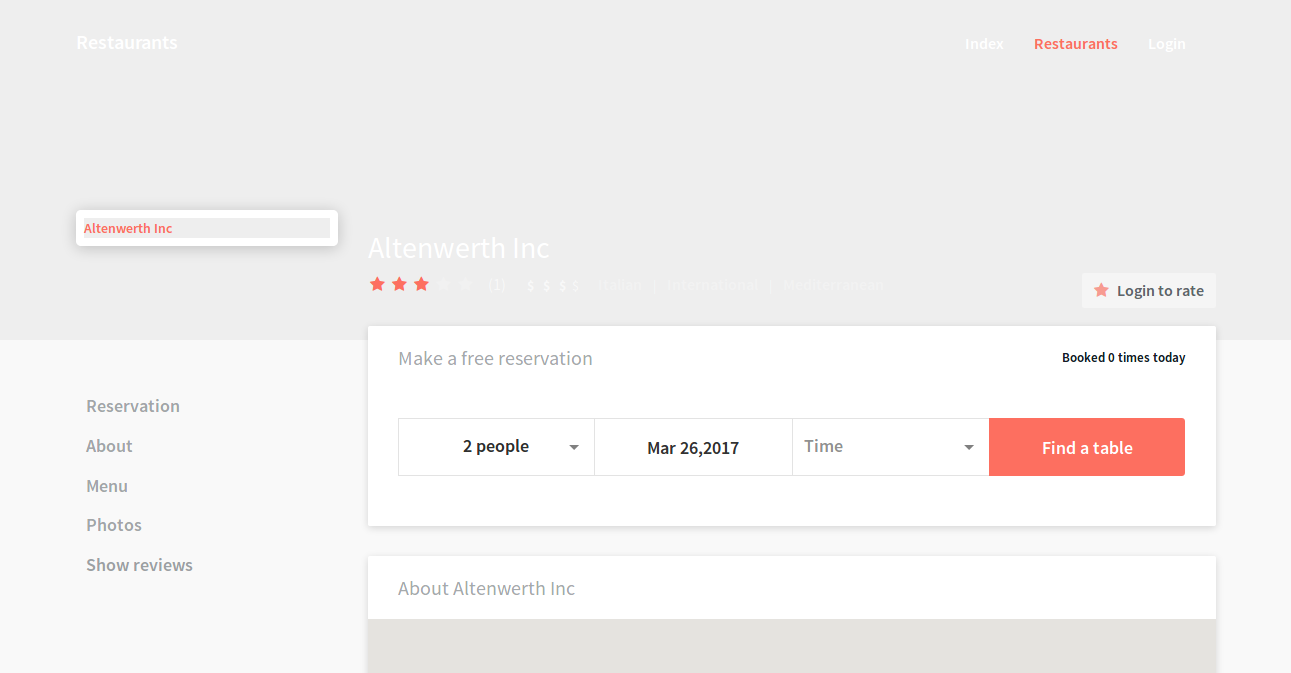
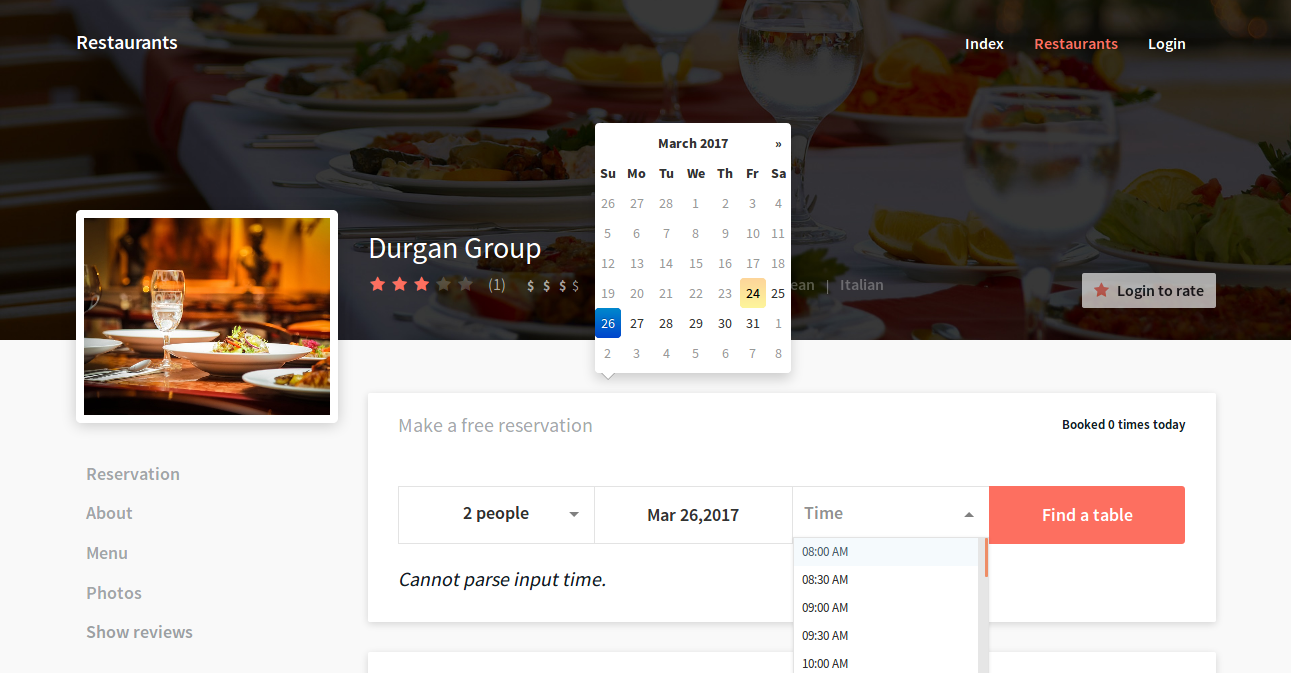
aa

diff --git a/smoke/reports/ReportChrome.html b/smoke/reports/ReportChrome.html
@@ -53,7 +53,7 @@
 					<i class='mdi-hardware-desktop-windows'></i>
 				</li>
 				<li>
-					<span class='suite-started-time'>2017-03-24 20:01:37</span>
+					<span class='suite-started-time'>2017-03-24 20:05:59</span>
 				</li>
 				<li>
 					<span>v2.41.1</span>
@@ -83,25 +83,25 @@
 					<div class='col l2 m4 s12'>
 						<div class='card suite-total-time-current'> 
 							<span class='panel-name'>Total Time Taken (Current Run)</span> 
-							<span class='suite-total-time-current-value panel-lead'>0h 0m 9s+816ms</span> 
+							<span class='suite-total-time-current-value panel-lead'>0h 0m 15s+739ms</span> 
 						</div> 
 					</div>
 					<div class='col l2 m4 s12'>
 						<div class='card suite-total-time-overall'> 
 							<span class='panel-name'>Total Time Taken (Overall)</span> 
-							<span class='suite-total-time-overall-value panel-lead'>0h 0m 9s+816ms</span> 
+							<span class='suite-total-time-overall-value panel-lead'>0h 0m 15s+739ms</span> 
 						</div> 
 					</div>
 					<div class='col l2 m4 s6 suite-start-time'>
 						<div class='card accent green-accent'> 
 							<span class='panel-name'>Start</span> 
-							<span class='panel-lead suite-started-time'>2017-03-24 20:01:27</span> 
+							<span class='panel-lead suite-started-time'>2017-03-24 20:05:43</span> 
 						</div> 
 					</div>
 					<div class='col l2 m4 s6 suite-end-time'>
 						<div class='card accent pink-accent'> 
 							<span class='panel-name'>End</span> 
-							<span class='panel-lead suite-ended-time'>2017-03-24 20:01:37</span> 
+							<span class='panel-lead suite-ended-time'>2017-03-24 20:05:59</span> 
 						</div> 
 					</div>
 				</div>
@@ -249,7 +249,7 @@
 						<div class='card-panel no-padding-h no-padding-v no-margin-v'>
 							<div class='wrapper'>
 								<ul id='test-collection' class='test-collection'>
-										<li class='collection-item test displayed active pass ' extentid='fefb608c-4ab1-4628-add4-83677172162a'>
+										<li class='collection-item test displayed active pass ' extentid='82c893de-c87d-4293-b663-930727033547'>
 											<div class='test-head'>
 												<span class='test-name'>Restaurant App Smoke Test </span>
 												<span class='test-status label right outline capitalize pass'>pass</span>
@@ -257,9 +257,9 @@
 											</div>
 											<div class='test-body'>
 												<div class='test-info'>
-													<span title='Test started time' alt='Test started time' class='test-started-time label green lighten-1 text-white'>2017-03-24 20:01:27</span>
-													<span title='Test ended time' alt='Test ended time' class='test-ended-time label red lighten-1 text-white'>2017-03-24 20:01:36</span>
-													<span title='Time taken to finish' alt='Time taken to finish' class='test-time-taken label blue-grey lighten-3 text-white'>0h 0m 9s+429ms</span>
+													<span title='Test started time' alt='Test started time' class='test-started-time label green lighten-1 text-white'>2017-03-24 20:05:43</span>
+													<span title='Test ended time' alt='Test ended time' class='test-ended-time label red lighten-1 text-white'>2017-03-24 20:05:59</span>
+													<span title='Time taken to finish' alt='Time taken to finish' class='test-time-taken label blue-grey lighten-3 text-white'>0h 0m 15s+397ms</span>
 												</div>
 												<div class='test-desc'></div>
 												<div class='test-attributes'>
@@ -276,32 +276,32 @@
 														<tbody>
 																<tr>
 																	<td class='status info' title='info' alt='info'><i class='mdi-action-info-outline'></i></td>
-																	<td class='timestamp'>20:01:31</td>
+																	<td class='timestamp'>20:05:52</td>
 																	<td class='step-details'>Application Starting...</td>
 																</tr>
 																<tr>
 																	<td class='status info' title='info' alt='info'><i class='mdi-action-info-outline'></i></td>
-																	<td class='timestamp'>20:01:35</td>
+																	<td class='timestamp'>20:05:55</td>
 																	<td class='step-details'>Click on restaurant</td>
 																</tr>
 																<tr>
 																	<td class='status info' title='info' alt='info'><i class='mdi-action-info-outline'></i></td>
-																	<td class='timestamp'>20:01:35</td>
+																	<td class='timestamp'>20:05:55</td>
 																	<td class='step-details'>Clear date field</td>
 																</tr>
 																<tr>
 																	<td class='status info' title='info' alt='info'><i class='mdi-action-info-outline'></i></td>
-																	<td class='timestamp'>20:01:36</td>
+																	<td class='timestamp'>20:05:56</td>
 																	<td class='step-details'>Set date</td>
 																</tr>
 																<tr>
 																	<td class='status info' title='info' alt='info'><i class='mdi-action-info-outline'></i></td>
-																	<td class='timestamp'>20:01:36</td>
+																	<td class='timestamp'>20:05:56</td>
 																	<td class='step-details'>Click on Time</td>
 																</tr>
 																<tr>
 																	<td class='status pass' title='pass' alt='pass'><i class='mdi-action-check-circle'></i></td>
-																	<td class='timestamp'>20:01:36</td>
+																	<td class='timestamp'>20:05:58</td>
 																	<td class='step-details'><a href='/home/anita/git/Restaurants/smoke/reports/restaurantsSmokeTest.png' data-featherlight='image'><img class='report-img' src='file:////home/anita/git/Restaurants/smoke/reports/restaurantsSmokeTest.png' /></a></td>
 																</tr>
 														</tbody>

diff --git a/smoke/reports/ReportFirefox.html b/smoke/reports/ReportFirefox.html
@@ -53,7 +53,7 @@
 					<i class='mdi-hardware-desktop-windows'></i>
 				</li>
 				<li>
-					<span class='suite-started-time'>2017-03-24 20:01:51</span>
+					<span class='suite-started-time'>2017-03-24 20:06:15</span>
 				</li>
 				<li>
 					<span>v2.41.1</span>
@@ -83,25 +83,25 @@
 					<div class='col l2 m4 s12'>
 						<div class='card suite-total-time-current'> 
 							<span class='panel-name'>Total Time Taken (Current Run)</span> 
-							<span class='suite-total-time-current-value panel-lead'>0h 0m 9s+268ms</span> 
+							<span class='suite-total-time-current-value panel-lead'>0h 0m 10s+868ms</span> 
 						</div> 
 					</div>
 					<div class='col l2 m4 s12'>
 						<div class='card suite-total-time-overall'> 
 							<span class='panel-name'>Total Time Taken (Overall)</span> 
-							<span class='suite-total-time-overall-value panel-lead'>0h 0m 9s+268ms</span> 
+							<span class='suite-total-time-overall-value panel-lead'>0h 0m 10s+868ms</span> 
 						</div> 
 					</div>
 					<div class='col l2 m4 s6 suite-start-time'>
 						<div class='card accent green-accent'> 
 							<span class='panel-name'>Start</span> 
-							<span class='panel-lead suite-started-time'>2017-03-24 20:01:42</span> 
+							<span class='panel-lead suite-started-time'>2017-03-24 20:06:04</span> 
 						</div> 
 					</div>
 					<div class='col l2 m4 s6 suite-end-time'>
 						<div class='card accent pink-accent'> 
 							<span class='panel-name'>End</span> 
-							<span class='panel-lead suite-ended-time'>2017-03-24 20:01:51</span> 
+							<span class='panel-lead suite-ended-time'>2017-03-24 20:06:15</span> 
 						</div> 
 					</div>
 				</div>
@@ -249,7 +249,7 @@
 						<div class='card-panel no-padding-h no-padding-v no-margin-v'>
 							<div class='wrapper'>
 								<ul id='test-collection' class='test-collection'>
-										<li class='collection-item test displayed active pass ' extentid='5e3be274-6c86-4800-931f-14bea7f06b09'>
+										<li class='collection-item test displayed active pass ' extentid='047f1385-50b4-44b9-9434-d931228d35f4'>
 											<div class='test-head'>
 												<span class='test-name'>Restaurant App Smoke Test </span>
 												<span class='test-status label right outline capitalize pass'>pass</span>
@@ -257,9 +257,9 @@
 											</div>
 											<div class='test-body'>
 												<div class='test-info'>
-													<span title='Test started time' alt='Test started time' class='test-started-time label green lighten-1 text-white'>2017-03-24 20:01:42</span>
-													<span title='Test ended time' alt='Test ended time' class='test-ended-time label red lighten-1 text-white'>2017-03-24 20:01:51</span>
-													<span title='Time taken to finish' alt='Time taken to finish' class='test-time-taken label blue-grey lighten-3 text-white'>0h 0m 9s+161ms</span>
+													<span title='Test started time' alt='Test started time' class='test-started-time label green lighten-1 text-white'>2017-03-24 20:06:04</span>
+													<span title='Test ended time' alt='Test ended time' class='test-ended-time label red lighten-1 text-white'>2017-03-24 20:06:15</span>
+													<span title='Time taken to finish' alt='Time taken to finish' class='test-time-taken label blue-grey lighten-3 text-white'>0h 0m 10s+820ms</span>
 												</div>
 												<div class='test-desc'></div>
 												<div class='test-attributes'>
@@ -276,32 +276,32 @@
 														<tbody>
 																<tr>
 																	<td class='status info' title='info' alt='info'><i class='mdi-action-info-outline'></i></td>
-																	<td class='timestamp'>20:01:46</td>
+																	<td class='timestamp'>20:06:07</td>
 																	<td class='step-details'>Application Starting...</td>
 																</tr>
 																<tr>
 																	<td class='status info' title='info' alt='info'><i class='mdi-action-info-outline'></i></td>
-																	<td class='timestamp'>20:01:50</td>
+																	<td class='timestamp'>20:06:11</td>
 																	<td class='step-details'>Click on restaurant</td>
 																</tr>
 																<tr>
 																	<td class='status info' title='info' alt='info'><i class='mdi-action-info-outline'></i></td>
-																	<td class='timestamp'>20:01:50</td>
+																	<td class='timestamp'>20:06:11</td>
 																	<td class='step-details'>Clear date field</td>
 																</tr>
 																<tr>
 																	<td class='status info' title='info' alt='info'><i class='mdi-action-info-outline'></i></td>
-																	<td class='timestamp'>20:01:51</td>
+																	<td class='timestamp'>20:06:11</td>
 																	<td class='step-details'>Set date</td>
 																</tr>
 																<tr>
 																	<td class='status info' title='info' alt='info'><i class='mdi-action-info-outline'></i></td>
-																	<td class='timestamp'>20:01:51</td>
+																	<td class='timestamp'>20:06:12</td>
 																	<td class='step-details'>Click on Time</td>
 																</tr>
 																<tr>
 																	<td class='status pass' title='pass' alt='pass'><i class='mdi-action-check-circle'></i></td>
-																	<td class='timestamp'>20:01:51</td>
+																	<td class='timestamp'>20:06:15</td>
 																	<td class='step-details'><a href='/home/anita/git/Restaurants/smoke/reports/restaurantsSmokeTest.png' data-featherlight='image'><img class='report-img' src='file:////home/anita/git/Restaurants/smoke/reports/restaurantsSmokeTest.png' /></a></td>
 																</tr>
 														</tbody>

diff --git a/smoke/src/test/java/com/restaurants/smoke/Tests.java b/smoke/src/test/java/com/restaurants/smoke/Tests.java
@@ -93,12 +93,12 @@ public class Tests {
 		test.log(LogStatus.INFO, "Set date");
 		restaurants.clickSelectTime();
 		test.log(LogStatus.INFO, "Click on Time");
-		//restaurants.clickWorkingHours();
-		//test.log(LogStatus.INFO, "Select working hours");
+		restaurants.clickWorkingHours();
+		test.log(LogStatus.INFO, "Select working hours");
 		restaurants.clickFindATableButton();
-		//test.log(LogStatus.INFO, "Click on Find A Table button");
-		//restaurants.selectReservationTime();
-	/*	test.log(LogStatus.INFO, "Select Reservation Time");
+		test.log(LogStatus.INFO, "Click on Find A Table button");
+		restaurants.selectReservationTime();
+		test.log(LogStatus.INFO, "Select Reservation Time");
 		restaurants.clickCreateAccount();
 		test.log(LogStatus.INFO, "Click Create Accaunt");
 		restaurants.setFirstName("First");
@@ -120,7 +120,7 @@ public class Tests {
 		Reporter.log("Application is Closing...");
 		test.assignAuthor("Anita", "Sredic");
 		test.assignCategory("Restaurant App - Smoke Test");
-*/
+
 	}
 
 	@AfterMethod
